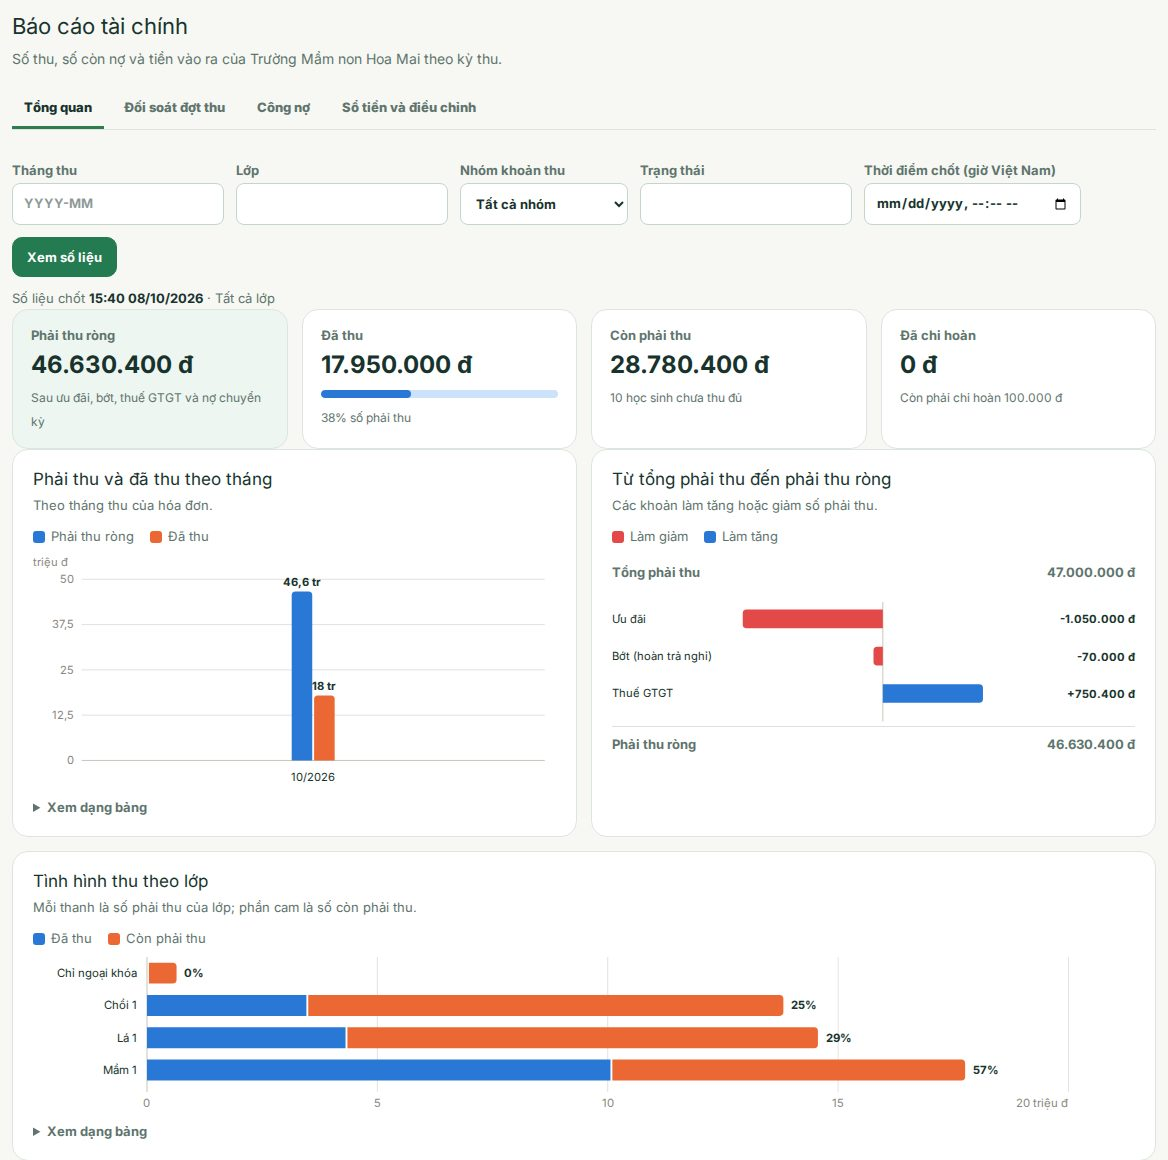
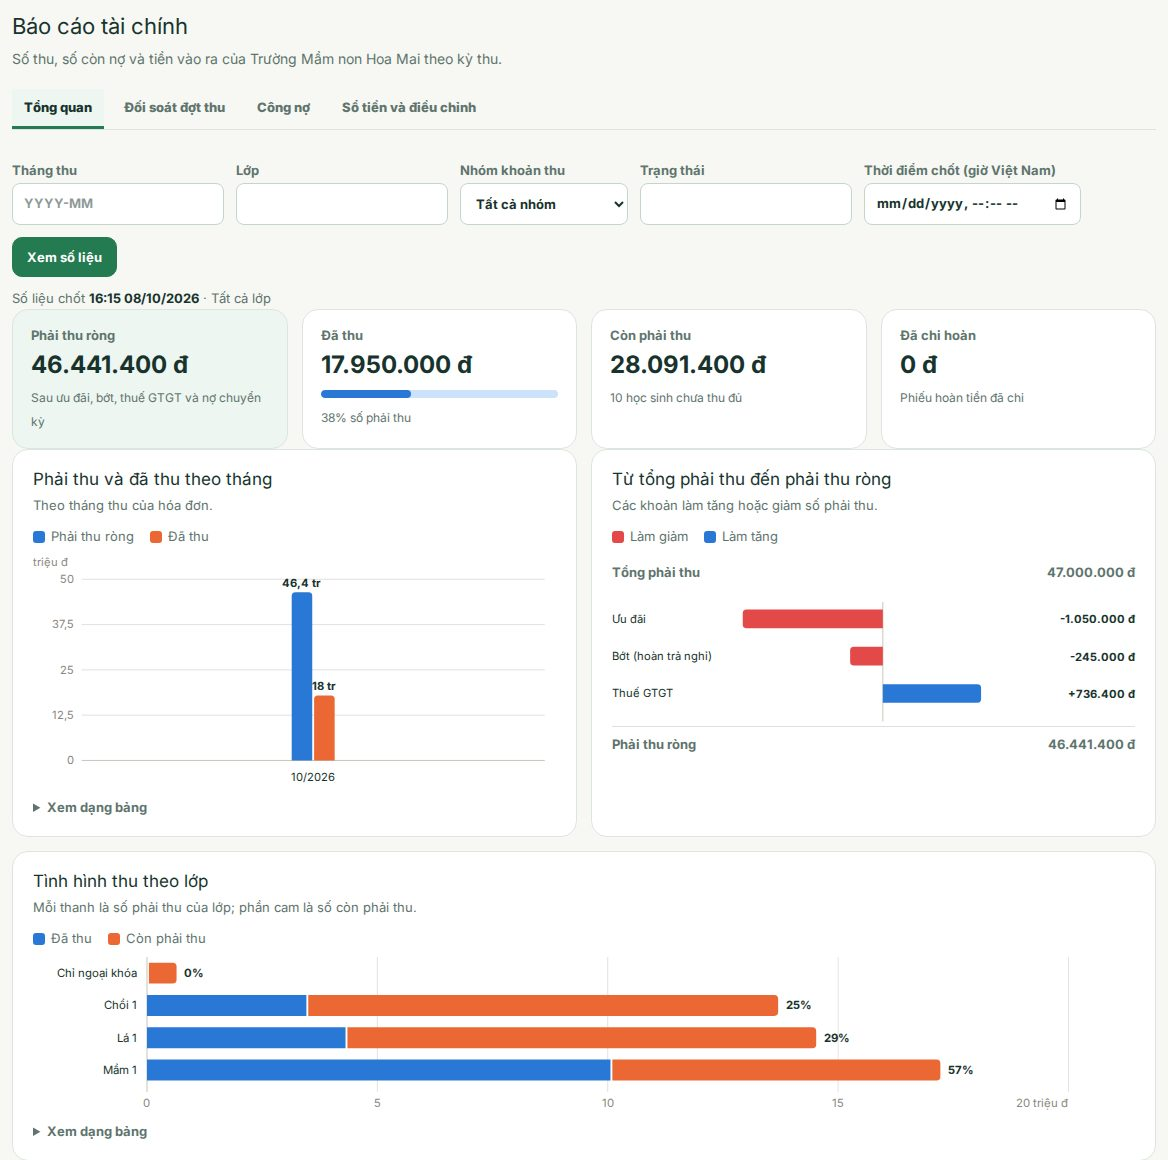
docs(guides): accountant notes for prepaid packages, revisions and carries

diff --git a/apps/web/src/guides/articles/11-dieu-chinh-hoa-don.md b/apps/web/src/guides/articles/11-dieu-chinh-hoa-don.md
@@ -1,27 +1,38 @@
 ---
 title: Điều chỉnh hóa đơn đã phát hành
-summary: Sửa sai sau khi đã phát hành bằng bản thay thế; hóa đơn gốc được giữ đến khi bản mới phát hành.
+summary: Sửa sai sau khi đã phát hành bằng bản thay thế; chọn đúng phần của phiếu thu cần sửa.
 order: 11
 requires: collection-runs
 ---
-Hóa đơn đã phát hành không sửa và không hủy trực tiếp. Cách duy nhất để thay đổi là tạo **bản điều chỉnh** (bản thay thế).
+Hóa đơn đã phát hành không sửa và không hủy trực tiếp. Cách duy nhất để thay đổi là tạo **bản điều chỉnh** (bản thay thế). Mỗi phần của phiếu thu (tài khoản trường, tài khoản cá nhân) được điều chỉnh riêng.
 
 ## Các bước
 
 1. Mở hóa đơn đã phát hành (`Rà soát hóa đơn` trong đợt thu).
 2. Ở khung **Thanh toán**, bấm `Chuẩn bị bản điều chỉnh`.
-3. Nhập `Lý do điều chỉnh` và xác nhận.
+3. Nếu phiếu thu có hai phần, chọn **Phần cần điều chỉnh** — chỉ phần được chọn bị thay thế, phần kia giữ nguyên (kể cả khi đã thu tiền).
+4. Nhập `Lý do điều chỉnh` và bấm `Chuẩn bị bản điều chỉnh`.
 
-![Chuẩn bị bản điều chỉnh](dieu-chinh-chuan-bi.jpg)
+![Chọn phần cần điều chỉnh và nhập lý do](dieu-chinh-chuan-bi.jpg)
 
-4. Hệ thống tạo một bản nháp mới. Sửa các dòng như với hóa đơn nháp bình thường (xem [Rà soát và phát hành hóa đơn](guide:ra-soat-phat-hanh)).
-5. Bấm `Phát hành bản thay thế`. Lúc này hóa đơn gốc chuyển sang `Đã hủy`, bản mới thay thế. Trang hóa đơn hiện dòng "Liên kết điều chỉnh" kèm lý do.
+5. Hệ thống tạo bản nháp **chép sẵn mọi dòng** của phần gốc. Chỉ sửa những gì sai (số lượng, đơn giá, phần bớt — kèm lý do), thêm hoặc xóa dòng nếu cần, rồi bấm `Lưu thay đổi`.
 
-> Trong lúc chuẩn bị, hóa đơn gốc **vẫn giữ nguyên hiệu lực** cho đến khi bản thay thế được phát hành. Nhớ gửi lại ảnh hóa đơn mới cho phụ huynh.
+![Bản điều chỉnh: phần 1 đang sửa, phần 2 đã thu giữ nguyên](dieu-chinh-ban-nhap.jpg)
+
+6. Bấm `Phát hành bản thay thế` và xác nhận. Hóa đơn gốc chuyển sang `Đã hủy`, bản mới thay thế; trang hiện dòng "Liên kết điều chỉnh" kèm lý do.
+
+![Phát hành bản thay thế](dieu-chinh-phat-hanh.jpg)
+
+7. Gửi lại ảnh hóa đơn mới cho phụ huynh.
+
+> Trong lúc chuẩn bị, hóa đơn gốc **vẫn giữ nguyên hiệu lực**. Mở lại phiếu thu từ đợt thu sẽ tự vào bản điều chỉnh đang dở để bạn làm tiếp.
+
+> [!WARNING]
+> Bản điều chỉnh đã chuẩn bị **không xóa được**. Nếu đổi ý, hãy phát hành bản thay thế giữ nguyên các dòng (giống hệt bản gốc). Đợt thu không đóng được khi còn bản điều chỉnh nháp.
 
 ## Giới hạn
 
-- Hóa đơn **đã thu tiền**: tổng của bản thay thế phải đúng bằng số đã thu.
+- Phần **đã thu tiền**: tổng của bản thay thế phải đúng bằng số đã thu. Muốn thu thêm hoặc trả lại tiền, dùng hóa đơn tháng sau (thêm dòng hoặc phần bớt) thay vì điều chỉnh.
 - Tổng của bản thay thế phải lớn hơn 0.
-- Không điều chỉnh được hóa đơn có công nợ đã chuyển kỳ, hoặc có gói nộp trước chưa tất toán.
+- Không điều chỉnh được hóa đơn có công nợ đã chuyển kỳ, hoặc có gói nộp trước chưa thu tiền.
 - Đợt thu đã đóng thì chỉ xem, không điều chỉnh được.

diff --git a/apps/web/src/guides/articles/09-ra-soat-phat-hanh.md b/apps/web/src/guides/articles/09-ra-soat-phat-hanh.md
@@ -57,6 +57,13 @@ Bấm `Xem ảnh hóa đơn` hoặc `Tải ảnh hóa đơn` để lấy ảnh t
 
 ## Gói nộp trước
 
-Trên hóa đơn nháp, mục `Quản lý ưu đãi nộp trước` cho phép chọn gói (xem [Ưu đãi và gói nộp trước](guide:uu-dai)) và bấm `Áp dụng ưu đãi nộp trước`. Hệ thống tự thêm các tháng kế tiếp vào hóa đơn. Hóa đơn có gói nộp trước chỉ được đóng khi thu **đúng bằng** số phải thu.
+Trên hóa đơn nháp, mục `Quản lý ưu đãi nộp trước` cho phép chọn gói (xem [Ưu đãi và gói nộp trước](guide:uu-dai)) và bấm `Áp dụng ưu đãi nộp trước`. Bảng **Ưu đãi nộp trước** liệt kê từng tháng của gói với giá gốc, phần giảm và thành tiền.
 
-![Chọn gói nộp trước trên hóa đơn nháp](hoa-don-nop-truoc.jpg)
+![Gói 3 tháng đã áp dụng: từng tháng và phần giảm](hoa-don-nop-truoc.jpg)
+
+Dòng khoản thu của gói chuyển thành **đủ số tháng** (ví dụ Học phí 3 tháng = 10.500.000 đ, ưu đãi 525.000 đ). Gói tự gắn vào đúng phần của phiếu thu theo tài khoản nhận của khoản thu (học phí "Không kê khai" → phần tài khoản cá nhân), dù bạn đang mở phần nào.
+
+![Học phí thu đủ 3 tháng của gói trên phần tài khoản cá nhân](hoa-don-nop-truoc-dong.jpg)
+
+> [!WARNING]
+> Khi phần hóa đơn đang có gói nộp trước, các dòng của phần đó **bị khóa**. Muốn sửa số lượng, đơn giá hay phần bớt, bấm `Xóa ưu đãi nộp trước` (dòng trở về 1 tháng), sửa xong rồi áp dụng lại gói. Phụ huynh phải chuyển **đúng** số tiền của phần đó; chuyển thiếu hoặc thừa sẽ không ghi thực nhận được.

diff --git a/apps/web/src/guides/articles/06-uu-dai.md b/apps/web/src/guides/articles/06-uu-dai.md
@@ -43,7 +43,9 @@ Dùng khi phụ huynh đóng trước nhiều tháng liên tiếp. Ở bước `
 
 ![Tạo gói đóng trước 3 tháng giảm 5%](uu-dai-nop-truoc.jpg)
 
-Sau khi kích hoạt, gói được áp dụng **trên từng hóa đơn nháp** ở mục `Quản lý ưu đãi nộp trước` (xem [Rà soát và phát hành hóa đơn](guide:ra-soat-phat-hanh)). Quyền ưu đãi các tháng sau chỉ được phát hành khi hóa đơn đó được thu **đủ đúng số tiền**.
+Sau khi kích hoạt, gói được áp dụng **trên từng hóa đơn nháp** ở mục `Quản lý ưu đãi nộp trước` (xem [Rà soát và phát hành hóa đơn](guide:ra-soat-phat-hanh)). Khi áp dụng, hóa đơn thu luôn **đủ số tháng của gói** (ví dụ gói 3 tháng: Học phí 3 tháng, trừ phần giảm của cả 3 tháng); các đợt thu tháng sau sẽ tự bỏ qua học phí của những tháng đã nộp trước. Quyền ưu đãi các tháng sau chỉ được phát hành khi hóa đơn đó được thu **đủ đúng số tiền**.
+
+> Khi tạo gói, chỉ chọn các khoản thu **cùng loại tài khoản nhận** (cùng "Không kê khai" hoặc cùng có thuế). Hệ thống từ chối gói trộn khoản thu tài khoản trường với khoản thu tài khoản cá nhân.
 
 > [!WARNING]
 > Không thu nhiều tháng bằng cách tăng số lượng học phí trên hóa đơn: các tháng sau sẽ vẫn bị thu và không được hoàn khi học sinh nghỉ. Hãy dùng gói nộp trước.

diff --git a/apps/web/src/guides/articles/10-thu-tien.md b/apps/web/src/guides/articles/10-thu-tien.md
@@ -33,6 +33,12 @@ Hệ thống trả về kết quả:
 
 ![Kết quả thu thừa 100.000 đ](thu-tien-ghi-thua-ket-qua.jpg)
 
+Tháng sau, khoản chênh lệch hiện thành một dòng riêng trên hóa đơn nháp cùng tài khoản: **Khoản thu thiếu kỳ trước** (cộng thêm) hoặc **Khoản thu thừa kỳ trước được khấu trừ** (trừ bớt). Dòng này cũng in trên ảnh thông báo học phí gửi phụ huynh.
+
+![Thu thiếu 500.000 đ tháng 10 được cộng vào phần tài khoản cá nhân tháng 11](hoa-don-chenh-lech-ky-truoc.jpg)
+
+> Chênh lệch chỉ chuyển sang hóa đơn **tạo sau** khi đã ghi thực nhận. Nếu đợt thu tháng sau đã tạo hóa đơn trước khi bạn ghi thực nhận tháng này, khoản chênh lệch sẽ vào đợt thu kế tiếp nữa. Nên ghi thực nhận xong trước khi tạo đợt thu tháng sau.
+
 > [!WARNING]
 > Mỗi hóa đơn chỉ ghi thực nhận **một lần** — không có thu từng đợt. Nếu phụ huynh chuyển làm hai lần, hãy cộng lại và ghi một lần khi đã nhận đủ hoặc khi chốt sổ. Phần của tài khoản kia không bị ảnh hưởng.
 

diff --git a/apps/web/src/guides/articles/14-bao-cao.md b/apps/web/src/guides/articles/14-bao-cao.md
@@ -22,6 +22,10 @@ Số hóa đơn đã phát hành, đã thu đủ, chênh lệch chờ chuyển k
 
 Công nợ hiện tại, nợ kỳ trước, công nợ theo thời gian quá hạn và danh sách **Học sinh còn nợ nhiều nhất** — dùng để nhắc phụ huynh.
 
+- **Công nợ hiện tại** chỉ tính các hóa đơn đã phát hành mà chưa ghi thực nhận.
+- Khoản thu thiếu/thừa của hóa đơn đã ghi thực nhận nằm ở **Chênh lệch chờ kỳ sau** cho đến khi được cộng/trừ vào hóa đơn tháng sau, nên không bị tính hai lần.
+- **Còn phải chi hoàn** chỉ gồm phiếu hoàn tiền (học sinh nghỉ học) đã phát hành mà chưa ghi nhận đã chi. Thu thừa của hóa đơn tháng không phải chi hoàn — nó được trừ vào tháng sau.
+
 ![Thẻ Công nợ](bao-cao-cong-no.jpg)
 
 ## Sổ tiền và điều chỉnh
